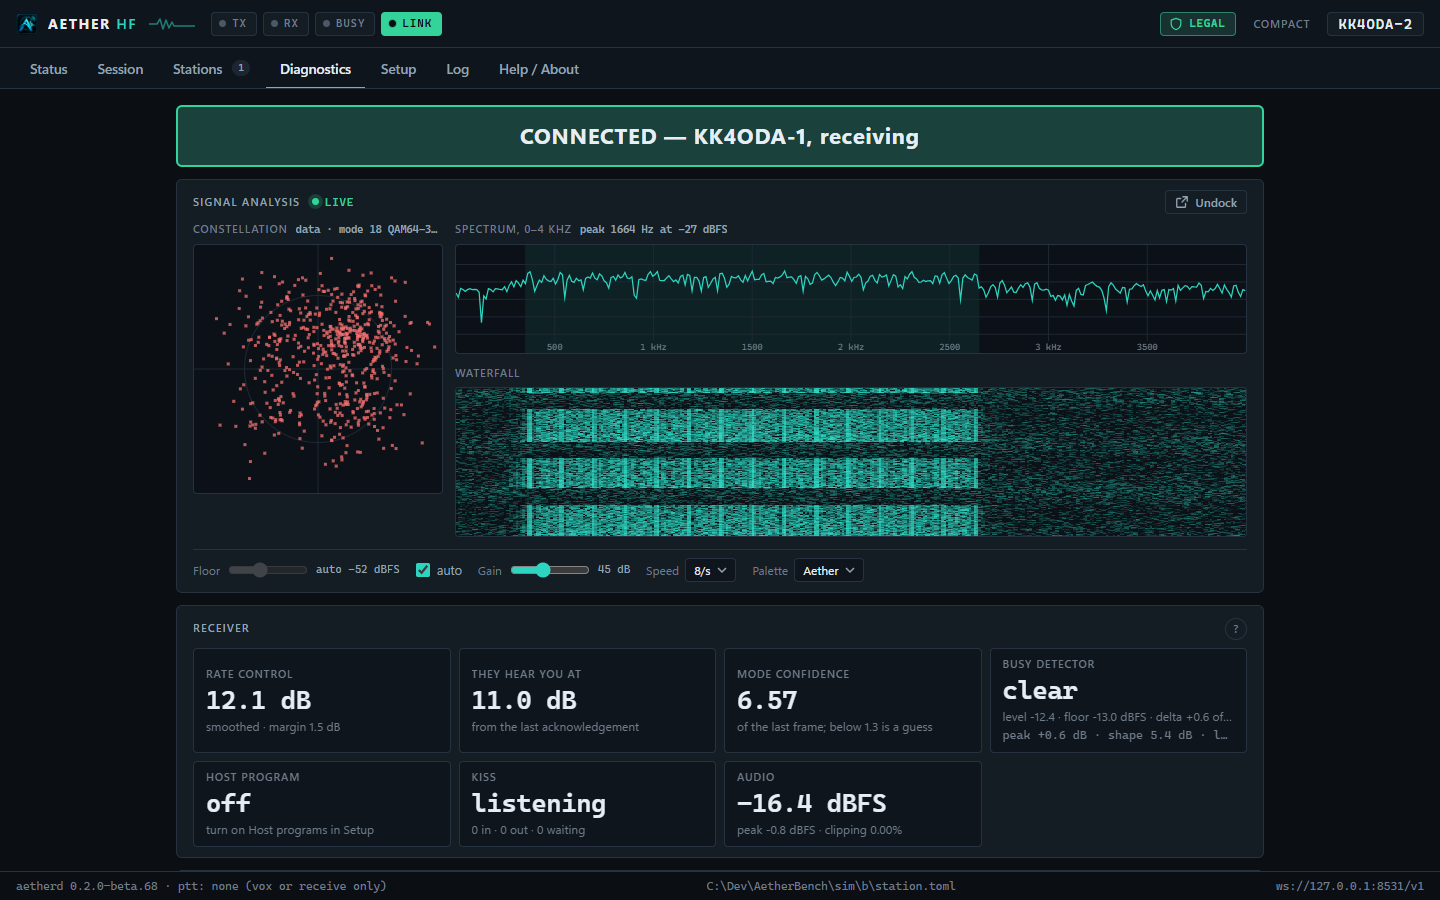
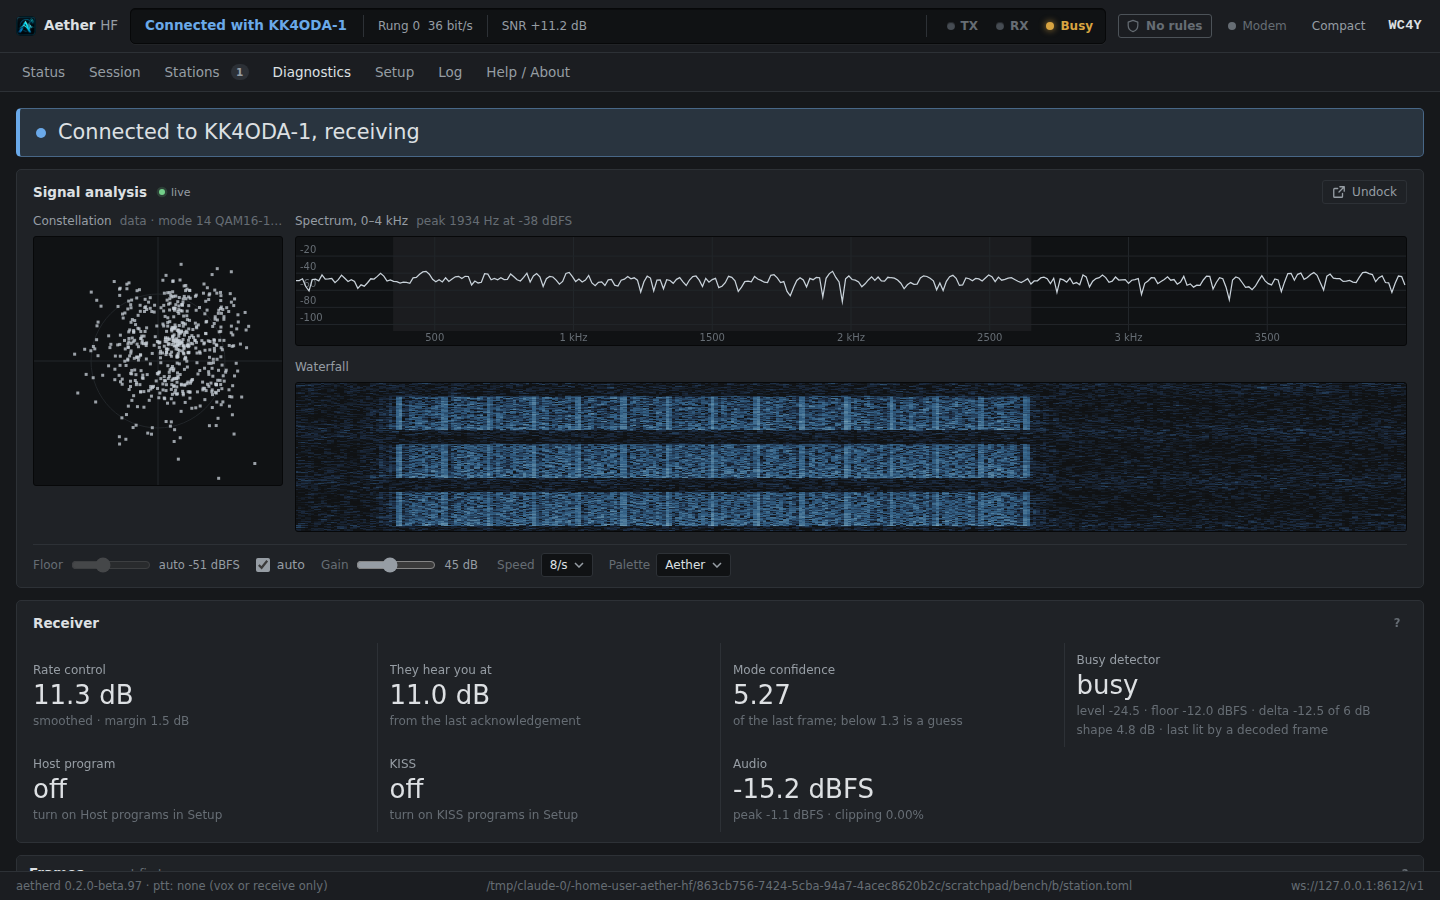
docs(readme): screenshots of the redesigned panel
Taken from a Test session between two bench daemons over the
simulated channel at 12 dB.

Claude-Session: https://claude.ai/code/session_013PAgMuhZ66FFd5Gfyh9knf

diff --git a/README.md b/README.md
@@ -50,18 +50,20 @@ Raspberry Pi gateway as happily as on a Windows desktop.
 ## Screenshots
 
 The station panel during a Test session on the bench — two daemons on one machine over
-the simulated channel at 12 dB. The caller's Session tab: the dial and the rules' verdict, the
-call with the Test's progress through the rung ladder, keying and drive, and the conversation:
+the simulated channel at 12 dB. The header's display strip shows, on every tab, what the station
+is doing, the rung and its rate, the SNR and the TX, RX and Busy lamps. The caller's Session tab:
+the dial and the rules' verdict, the call with the Test's progress up the rung ladder, keying and
+drive, and the conversation:
 
 ![The Session tab of the calling station during a Test session](docs/images/panel-session.png)
 
-Its Status tab a couple of minutes later: the link and the channel at a glance, the speed over
+Its Status tab as the Test sends its file: the link and the channel at a glance, the speed over
 the last ten minutes against the rate of the rung in use, the channel's rhythm of bursts and
 acknowledgements, and the counters:
 
 ![The Status tab of the calling station during a Test session](docs/images/panel-status.png)
 
-The other station's Diagnostics tab: the last frame's constellation (a 64-QAM rung), the
+The other station's Diagnostics tab: the last frame's constellation (a 16-QAM rung), the
 spectrum and the waterfall, and the receiver's readings:
 
 ![The Diagnostics tab of the receiving station](docs/images/panel-diagnostics.png)
